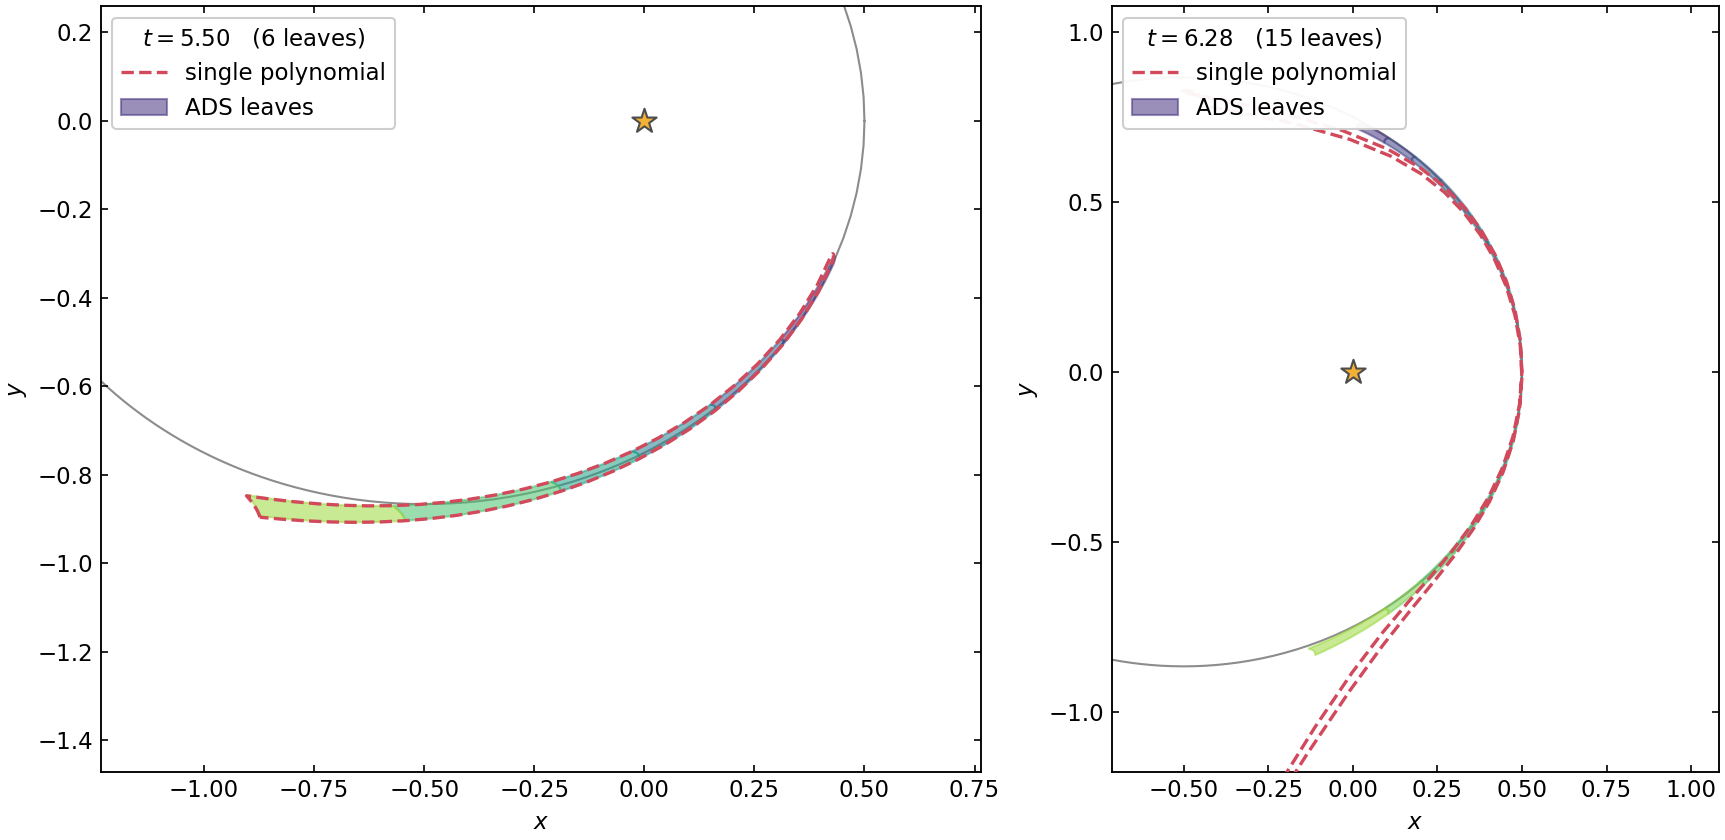
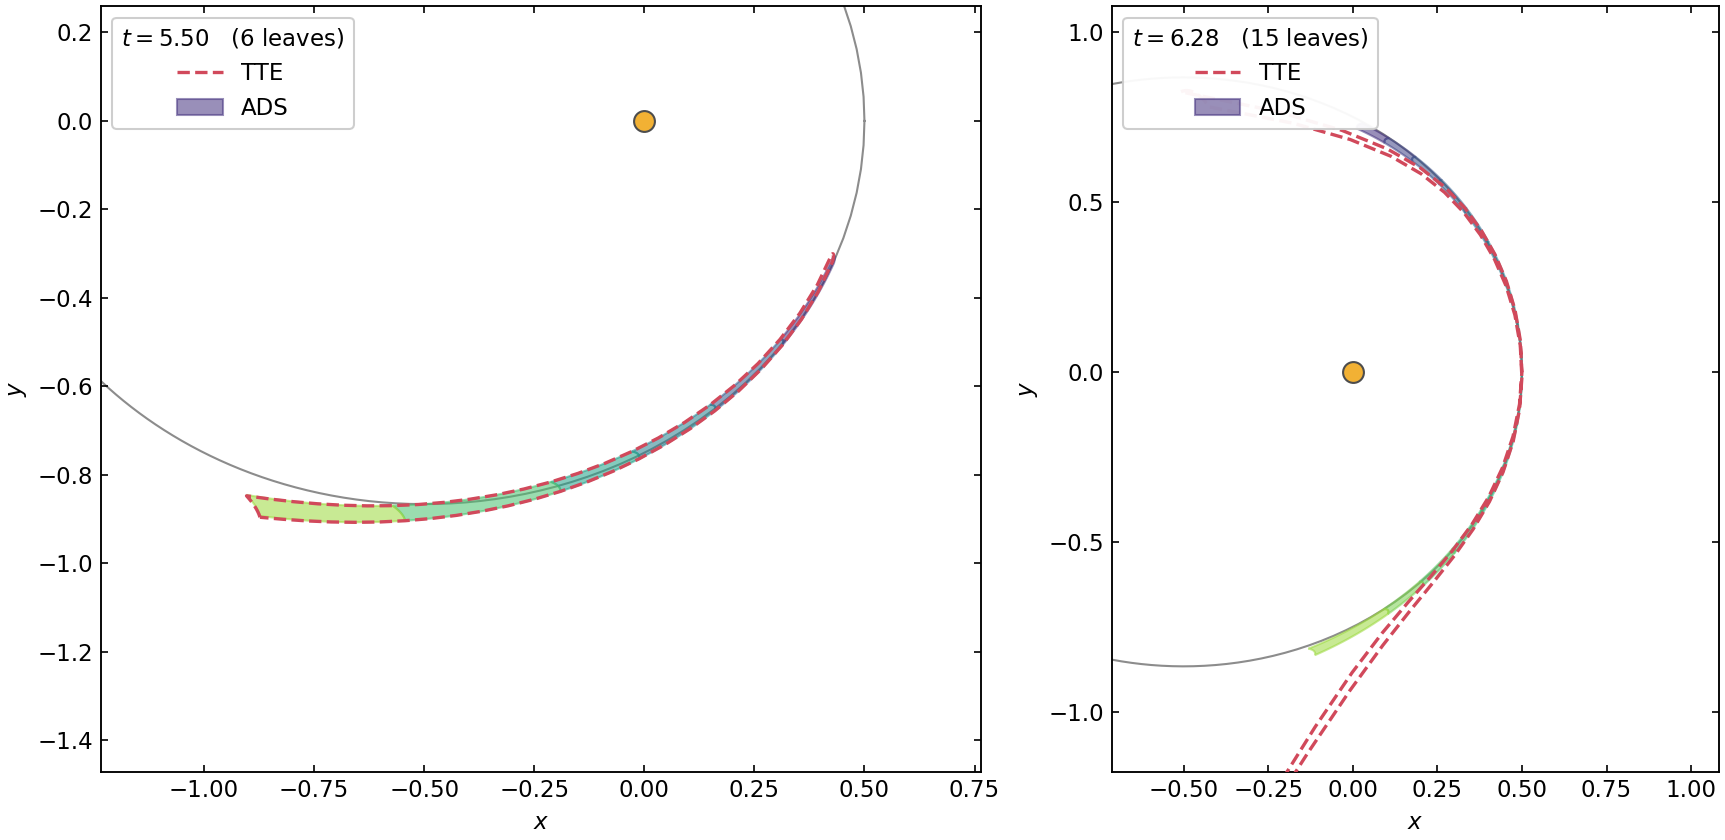
examples/plot: two-body figure improvements
- Primary body: circle marker instead of star
- Colorbar label: t/T (normalized by period T) instead of raw t
- Add two_body_ads_orbit.png: full-orbit ADS snapshot view
- Rename legend entries: TTE (was "single polynomial"), ADS (was "ADS leaves")
- Tutorial: reference the new orbit figure

https://claude.ai/code/session_01UxTAPe1ZUErjz3YLZNQmuJ

diff --git a/examples/plot/plot_two_body.py b/examples/plot/plot_two_body.py
@@ -49,22 +49,22 @@ def plot_flow(taylor, out_dir):
 
     ref = taylor["reference_orbit"]
     ax.plot(ref["x0"], ref["x1"], color="0.55", lw=1.0, zorder=1, label="reference orbit")
-    ax.scatter([0], [0], marker="*", s=180, color="#f2b134", edgecolor="0.3",
+    ax.scatter([0], [0], marker="o", s=120, color="#f2b134", edgecolor="0.3",
                zorder=5, label="primary")
 
     snaps = taylor["snapshots"]
     t_final = taylor["params"]["t_final"]
-    norm = Normalize(0.0, t_final)
+    norm = Normalize(0.0, 1.0)
     cmap = plt.get_cmap("viridis")
     for snap in snaps:
-        color = cmap(norm(snap["t"]))
+        color = cmap(norm(snap["t"] / t_final))
         for leaf in snap["leaves"]:
             ax.fill(leaf["x"], leaf["y"], facecolor=color, alpha=0.45,
                     edgecolor=color, lw=1.4, zorder=3)
 
     sm = ScalarMappable(norm=norm, cmap=cmap)
     cbar = fig.colorbar(sm, ax=ax, fraction=0.04, pad=0.02)
-    cbar.set_label("snapshot time  $t$  (one period $= 2\\pi$)")
+    cbar.set_label("$t\\,/\\,T$")
 
     ax.set_xlabel("$x$")
     ax.set_ylabel("$y$")
@@ -87,17 +87,17 @@ def plot_ads(taylor, ads, out_dir):
         st, sa = taylor["snapshots"][k], ads["snapshots"][k]
         ref = taylor["reference_orbit"]
         ax.plot(ref["x0"], ref["x1"], color="0.55", lw=1.0, zorder=1)
-        ax.scatter([0], [0], marker="*", s=150, color="#f2b134", edgecolor="0.3", zorder=5)
+        ax.scatter([0], [0], marker="o", s=100, color="#f2b134", edgecolor="0.3", zorder=5)
 
         leaf = st["leaves"][0]
         ax.plot(leaf["x"], leaf["y"], color="#d1495b", lw=1.6, ls="--", zorder=4,
-                label="single polynomial")
+                label="TTE")
 
         n = len(sa["leaves"])
         for i, lf in enumerate(sa["leaves"]):
             c = cmap(0.15 + 0.7 * i / max(n - 1, 1))
             ax.fill(lf["x"], lf["y"], facecolor=c, alpha=0.55, edgecolor=c, lw=1.0,
-                    zorder=3, label="ADS leaves" if i == 0 else None)
+                    zorder=3, label="ADS" if i == 0 else None)
 
         # Zoom to the ADS set (the trustworthy one); the single-polynomial
         # tail running out of frame is the point of the figure.
@@ -114,6 +114,39 @@ def plot_ads(taylor, ads, out_dir):
         ax.legend(loc="upper left", title=f"$t = {st['t']:.2f}$   ({n} leaves)")
 
     fig.savefig(out_dir / "two_body_ads.png", dpi=150)
+    plt.close(fig)
+
+
+def plot_ads_orbit(ads, out_dir):
+    """All ADS snapshots overlaid on the full orbit."""
+    fig, ax = plt.subplots(figsize=(7.2, 6.4))
+
+    ref = ads["reference_orbit"]
+    ax.plot(ref["x0"], ref["x1"], color="0.55", lw=1.0, zorder=1, label="reference orbit")
+    ax.scatter([0], [0], marker="o", s=120, color="#f2b134", edgecolor="0.3",
+               zorder=5, label="primary")
+
+    snaps = ads["snapshots"]
+    t_final = ads["params"]["t_final"]
+    norm = Normalize(0.0, 1.0)
+    cmap = plt.get_cmap("viridis")
+    for snap in snaps:
+        color = cmap(norm(snap["t"] / t_final))
+        for leaf in snap["leaves"]:
+            ax.fill(leaf["x"], leaf["y"], facecolor=color, alpha=0.45,
+                    edgecolor=color, lw=1.0, zorder=3)
+
+    sm = ScalarMappable(norm=norm, cmap=cmap)
+    cbar = fig.colorbar(sm, ax=ax, fraction=0.04, pad=0.02)
+    cbar.set_label("$t\\,/\\,T$")
+
+    ax.set_xlabel("$x$")
+    ax.set_ylabel("$y$")
+    ax.set_aspect("equal")
+    ax.legend(loc="upper left")
+
+    fig.tight_layout()
+    fig.savefig(out_dir / "two_body_ads_orbit.png", dpi=150)
     plt.close(fig)
 
 
@@ -152,8 +185,9 @@ def main():
 
     plot_flow(taylor, args.out)
     plot_ads(taylor, ads, args.out)
+    plot_ads_orbit(ads, args.out)
     plot_leaves(ads, loads, args.out)
-    print(f"wrote two_body_flow.png, two_body_ads.png, two_body_leaves.png -> {args.out}")
+    print(f"wrote two_body_flow.png, two_body_ads.png, two_body_ads_orbit.png, two_body_leaves.png -> {args.out}")
 
 
 if __name__ == "__main__":

diff --git a/docs/tutorials/two_body.md b/docs/tutorials/two_body.md
@@ -164,6 +164,11 @@ At \(t = 5.50\) (left) six leaves cover the banana; the single polynomial
 the frame, while the 15 ADS leaves stay glued to the true set through the
 periapsis re-passage — the most nonlinear part of the orbit.
 
+The ADS partition over the full orbit looks as follows — each snapshot is colored
+by $t / T$, showing how the leaf count (and leaf size) evolves through the orbit:
+
+![ADS leaf partition over the full orbit](img/two_body_ads_orbit.png)
+
 ## LOADS: splitting on the nonlinearity index
 
 The truncation criterion needs a moderately high order (here \(P = 8\)) to